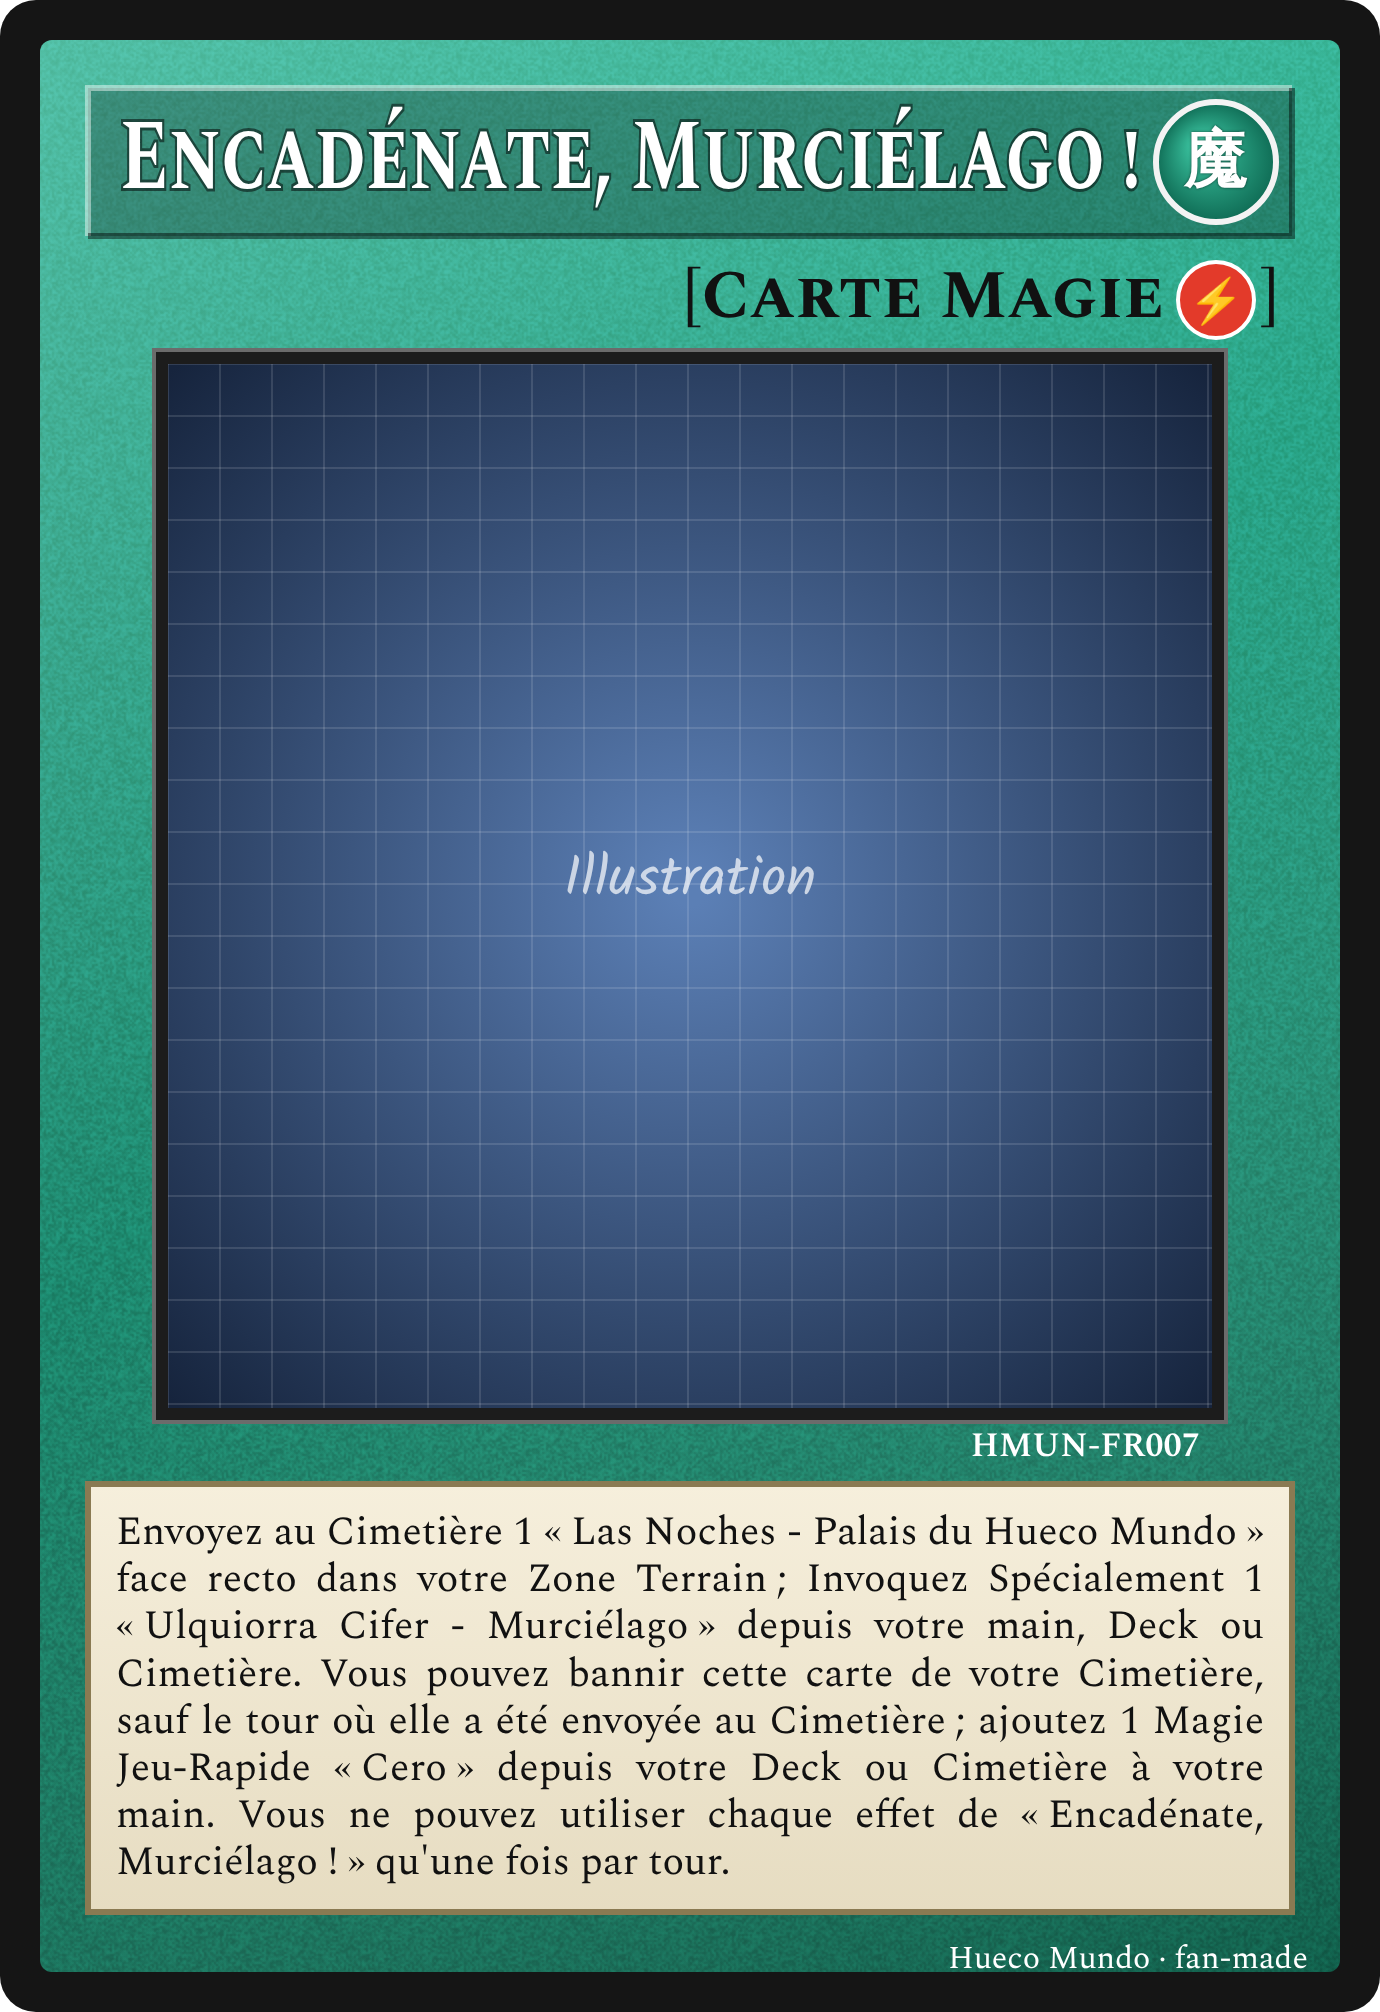
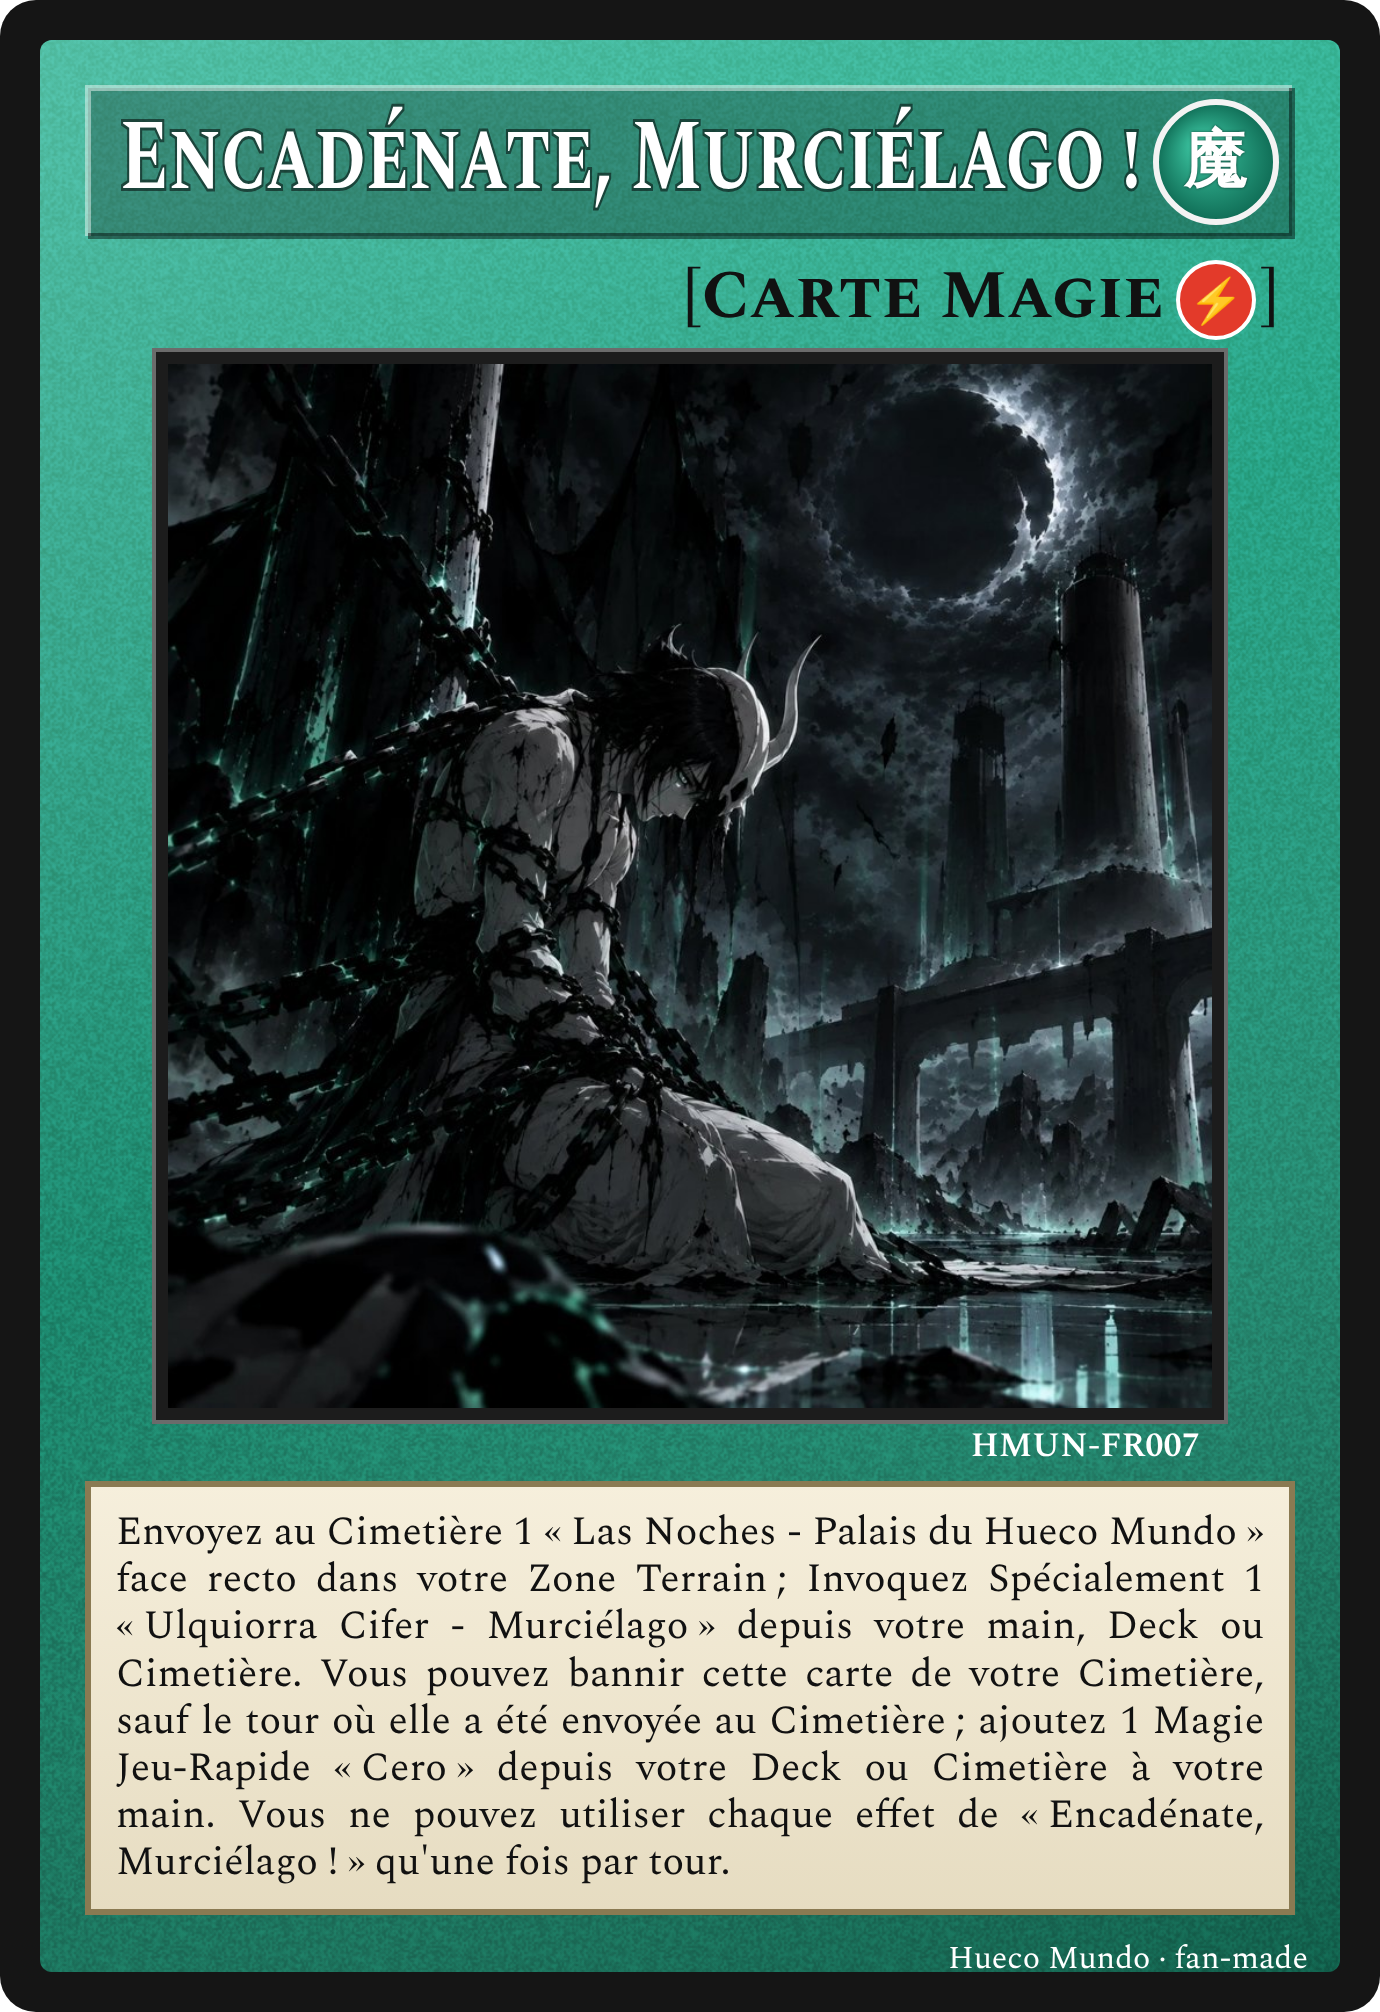
Hueco Mundo : visuel d'Encadénate, Murciélago !
Claude-Session: https://claude.ai/code/session_01CeiwhQp6R4Er8VccCFyYbK

diff --git a/archetypes/hueco-mundo/FICHE.md b/archetypes/hueco-mundo/FICHE.md
@@ -66,7 +66,7 @@ Magie Jeu-Rapide « Cero » (FR003).
 | HMUN-FR004 | Ulquiorra Cifer - Segunda Etapa | Monstre à Effet, Niv. 10, 3500/3000, boss | Terminée |
 | HMUN-FR005 | Fracciones - Tir d'Interception | Monstre à Effet, Niv. 3, 1000/1000, handtrap | Terminée |
 | HMUN-FR006 | Ulquiorra Cifer - Murciélago | Monstre à Effet, Niv. 8, 2800/2200 | Terminée |
-| HMUN-FR007 | Encadénate, Murciélago ! | Magie Jeu-Rapide | Texte validé · visuel à venir |
+| HMUN-FR007 | Encadénate, Murciélago ! | Magie Jeu-Rapide | Terminée |
 | HMUN-FR002 | Las Noches - Palais du Hueco Mundo | Magie de Terrain | Terminée |
 | HMUN-FR003 | Cero Oscuras - Le Cero Noir du Désespoir | Magie Jeu-Rapide | Terminée |
 
@@ -100,7 +100,14 @@ croisés au premier plan. Ambiance dynamique, réaction instantanée.
 Première libération : ailes de chauve-souris noires, cornes, demi-masque, bras griffu tendu vers l'adversaire,
 sous le croissant de lune au-dessus des tours de Las Noches.
 
+### HMUN-FR007 · Encadénate, Murciélago !
+Ulquiorra agenouillé, enchaîné de chaînes noires veinées de vert, tête baissée sous un croissant de lune noir,
+devant les tours sombres de Las Noches qui se reflètent dans l'eau.
+
 ## Points de vigilance (équilibrage)
+
+- OTK possible via FR007 en Battle Phase (1800 + 2800 + 3500 + 1000 de la Lanza = 9100). Frein : FR007 ne peut être
+  cherchée par aucune carte, il faut la piocher.
 
 - FR006 : pas de « Doit d'abord être Invoquée Spécialement… », sinon FR001 ne pourrait pas la sortir du Deck.
 
